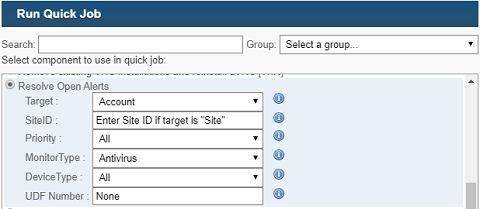
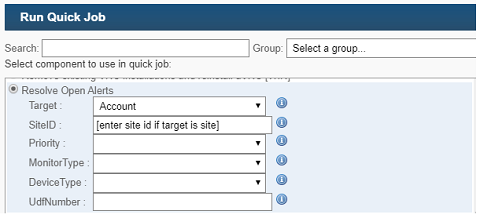
Document changes in readme
- Change component sample screenshot to match latest interface
- Change powershell badge to show compatibility 4.0, 5.1 and 6.2
- Bump versioning

Resolve #55

Changed region(s): [[0.0, 0.3445, 1.0, 1.0], [0.0, 0.0, 1.0, 0.3158]]

diff --git a/README.md b/README.md
@@ -4,7 +4,7 @@ A Datto RMM Component to resolve Open Alerts via the RMM API.
 
 > This Component compliments existing Alert Resolution options in RMM, offering more flexibility and control over Alert Resolution, especially for 100s and 1000s of Open Alerts.
 
-![License: GPL-3](https://img.shields.io/github/license/piouson/Resolve-Open-Alerts) ![Powershell: Version 3, 5 and 6](https://img.shields.io/badge/powershell-3.0%20%7C%205.1%20%7C%206.2-blue) ![Platforms: Windows, macOS, Linux](https://img.shields.io/badge/platform-windows%20%7C%20macos%20%7C%20linux-brightgreen)  
+![License: GPL-3](https://img.shields.io/github/license/piouson/Resolve-Open-Alerts) ![Powershell: Version 4, 5 and 6](https://img.shields.io/badge/powershell-4.0%20%7C%205.1%20%7C%206.2-blue) ![Platforms: Windows, macOS, Linux](https://img.shields.io/badge/platform-windows%20%7C%20macos%20%7C%20linux-brightgreen)  
 ![Releave: Version 2](https://img.shields.io/github/v/release/piouson/Resolve-Open-Alerts?sort=semver) ![Release Date](https://img.shields.io/github/release-date/piouson/Resolve-Open-Alerts) ![Downloads](https://img.shields.io/github/downloads/piouson/Resolve-Open-Alerts/total) ![Open Issues](https://img.shields.io/github/issues-raw/piouson/Resolve-Open-Alerts)
 
 > ![Resolve Open Alerts sample image](./sample-480.png)
